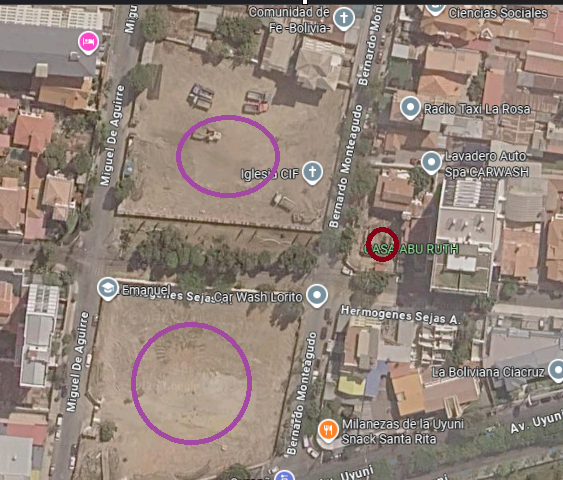
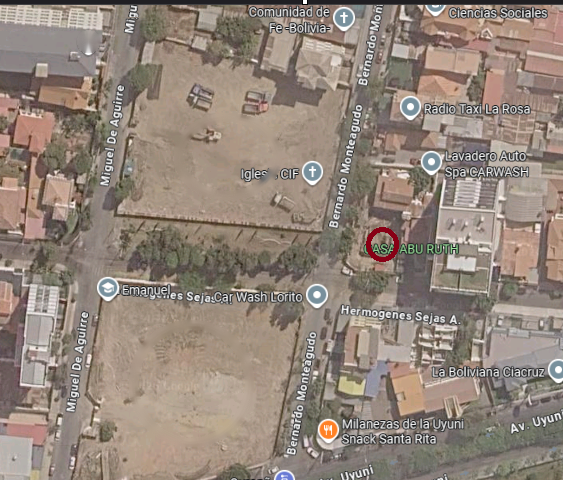
Asoleamiento: mapa sin círculos, edificios alargados al norte, reproducción automática en bucle y vista de dron
Claude-Session: https://claude.ai/code/session_01NSHKyhoaakd7DEnjKKYuWc

diff --git a/sol/index.html b/sol/index.html
@@ -149,7 +149,7 @@ td.zero { color: var(--muted); }
         <span id="hudSun">Sol: 45° de altura, noroeste</span>
       </div>
       <div class="views" role="group" aria-label="Vista">
-        <button id="v3d" aria-pressed="true">3D</button>
+        <button id="v3d" aria-pressed="true">Vista dron</button>
         <button id="vtop" aria-pressed="false">Planta</button>
         <button id="vwest" aria-pressed="false">Desde el oeste</button>
       </div>
@@ -161,7 +161,7 @@ td.zero { color: var(--muted); }
     </div>
     <div class="timebar">
       <div class="tb-top">
-        <button id="play" aria-label="Reproducir el día">▶</button>
+        <button id="play" aria-label="Pausar">❚❚</button>
         <div class="tb-range">
           <input type="range" id="time" min="360" max="1140" step="5" value="840" aria-label="Hora del día">
           <div class="ticks" aria-hidden="true"><span>6</span><span>7</span><span>8</span><span>9</span><span>10</span><span>11</span><span>12</span><span>13</span><span>14</span><span>15</span><span>16</span><span>17</span><span>18</span><span>19</span></div>
@@ -223,7 +223,7 @@ td.zero { color: var(--muted); }
   const startT = nowMin >= 420 && nowMin <= 1080 ? Math.round(nowMin / 5) * 5 : 840;
 
   const LEVELS = [{ id: 'bajo', name: 'Piso 1' }, { id: 'medio', name: 'Piso medio' }, { id: 'alto', name: 'Último piso' }];
-  const state = { date: 'ver', level: 'medio', myFloors: 11, eastFloors: 8, gap: 60, tall: 'sur', t: startT, playing: false };
+  const state = { date: 'ver', level: 'medio', myFloors: 11, eastFloors: 8, gap: 60, tall: 'sur', t: startT, playing: true };
 
   const $ = (id) => document.getElementById(id);
   const fmtT = (m) => S.fmt(m);
@@ -253,8 +253,15 @@ td.zero { color: var(--muted); }
   }
   chips($('dates'), DATES, 'date');
   chips($('levels'), LEVELS, 'level');
-  $('time').oninput = (e) => { state.t = +e.target.value; update(); };
-  $('play').onclick = () => { state.playing = !state.playing; $('play').textContent = state.playing ? '❚❚' : '▶'; $('play').setAttribute('aria-label', state.playing ? 'Pausar' : 'Reproducir el día'); };
+  function setPlaying(on) { state.playing = on; $('play').textContent = on ? '❚❚' : '▶'; $('play').setAttribute('aria-label', on ? 'Pausar' : 'Reproducir el día'); }
+  // al arrastrar la hora se pausa; al soltar sigue reproduciendo desde ahí, en bucle
+  let dragging = false;
+  $('time').oninput = (e) => { dragging = true; state.playing = false; state.t = +e.target.value; update(); };
+  const resume = () => { if (dragging) { dragging = false; setPlaying(true); } };
+  $('time').addEventListener('change', resume);
+  $('time').addEventListener('pointerup', resume);
+  $('time').addEventListener('touchend', resume);
+  $('play').onclick = () => setPlaying(!state.playing);
 
   // ---------- three.js ----------
   const canvas = $('gl'), viewer = $('viewer');
@@ -340,16 +347,25 @@ td.zero { color: var(--muted); }
   function setView(v) {
     ['v3d', 'vtop', 'vwest'].forEach((id) => $(id).setAttribute('aria-pressed', String(id === v)));
     const tgt = W(-35, -5, 10);
-    if (v === 'v3d') camera.position.copy(W(120, -230, 170));
+    if (v === 'v3d') {
+      // toma de dron desde el sureste: la Monteagudo queda inclinada ~60° hacia la derecha
+      const k = Math.max(1, 1.2 / camera.aspect), az = 165 * Math.PI / 180;
+      tgt.copy(W(-45, -5, 25));
+      camera.position.copy(W(-45 + 280 * k * Math.sin(az), -5 + 280 * k * Math.cos(az), 25 + 170 * k));
+    }
     if (v === 'vtop') camera.position.copy(W(-40, -0.5, 420));
     if (v === 'vwest') { camera.position.copy(W(-260, -5, 45)); tgt.copy(W(0, 0, 15)); }
     controls.target.copy(tgt); controls.update(); render();
   }
-  $('v3d').onclick = () => setView('v3d'); $('vtop').onclick = () => setView('vtop'); $('vwest').onclick = () => setView('vwest');
+  let curView = 'v3d', touched = false;
+  controls.addEventListener('start', () => { touched = true; });
+  $('v3d').onclick = () => { curView = 'v3d'; setView('v3d'); }; $('vtop').onclick = () => { curView = 'vtop'; setView('vtop'); }; $('vwest').onclick = () => { curView = 'vwest'; setView('vwest'); };
 
   function resize() {
     const w = viewer.clientWidth, h = viewer.clientHeight;
-    renderer.setSize(w, h, false); camera.aspect = w / h; camera.updateProjectionMatrix(); render();
+    renderer.setSize(w, h, false); camera.aspect = w / h; camera.updateProjectionMatrix();
+    if (!touched && curView === 'v3d') setView('v3d');
+    render();
   }
   window.addEventListener('resize', resize);
 

diff --git a/sol/core.js b/sol/core.js
@@ -33,9 +33,9 @@
     const T = 40.5; // lado de cada torre nueva: 40,5 m ≈ 1640 m²; crecen hacia afuera, el espacio entre ellas no cambia
     return {
       opts: o,
-      mine: { name: 'Torre Toscana', x0: -8.6, x1: 8.6, y0: -11, y1: 11, h: myH }, // 17,2 × 22 m ≈ 378 m² (+50 %)
+      mine: { name: 'Torre Toscana', x0: -8.6, x1: 8.6, y0: -11, y1: 17.6, h: myH }, // 17,2 × 28,6 m (alargado 30 % hacia el norte)
       boxes: [
-        { id: 'este', name: 'Edificio vecino (este)', x0: 23.6, x1: 44.6, y0: -10.5, y1: 22,  // 21 × 32,5 m (alargado 30 % hacia el norte), a 15 m
+        { id: 'este', name: 'Edificio vecino (este)', x0: 23.6, x1: 44.6, y0: -10.5, y1: 28.5,  // 21 × 39 m (alargado hacia el norte), a 15 m
           h: o.eastFloors * o.floorH },
         { id: 'norte', name: 'Torre noroeste', x0: -98.25, x1: -57.75, y0: gc + o.gap / 2, y1: gc + o.gap / 2 + T, h: o.northFloors * o.floorH },
         { id: 'sur', name: 'Torre suroeste', x0: -117.25, x1: -76.75, y0: gc - o.gap / 2 - T, y1: gc - o.gap / 2, h: o.southFloors * o.floorH },
